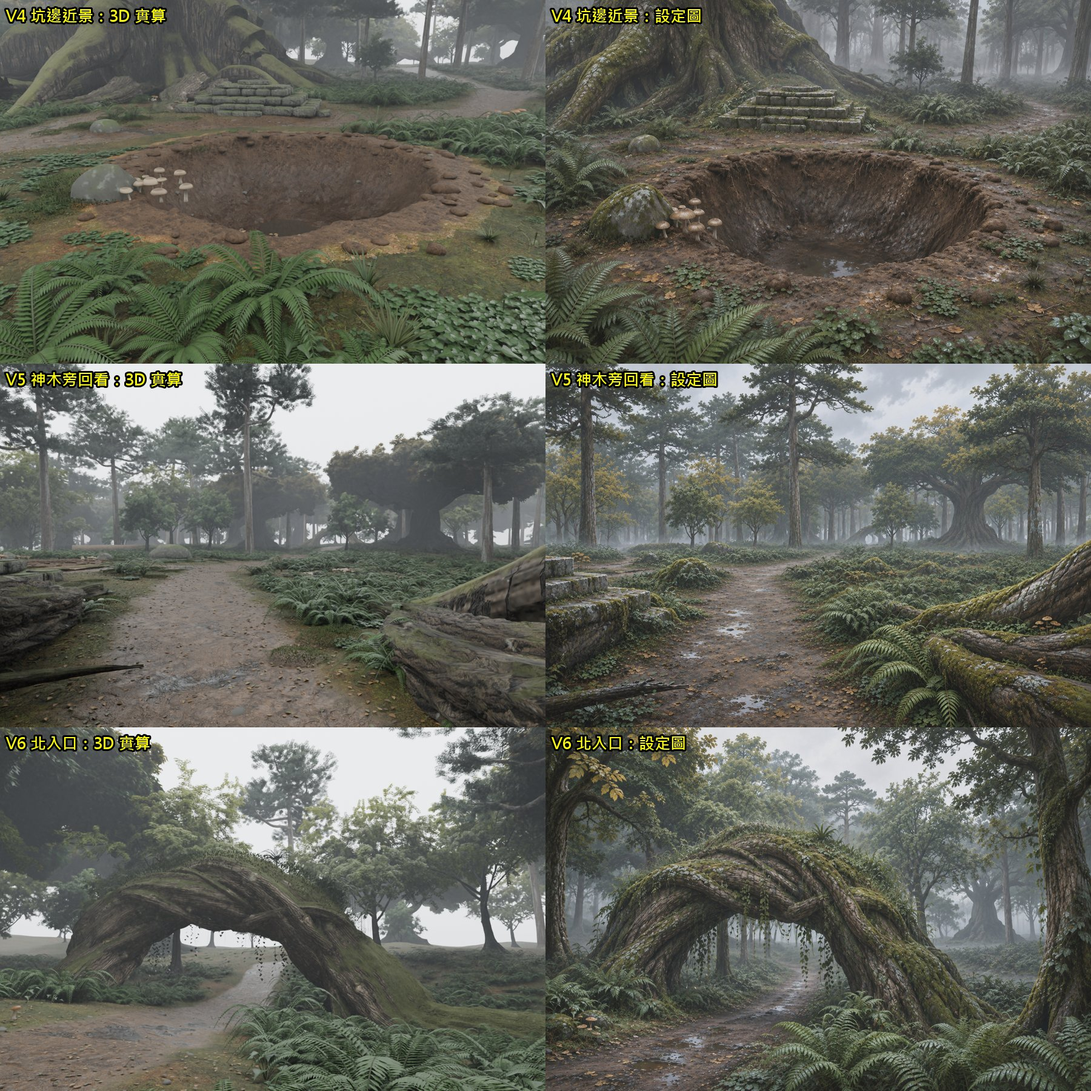
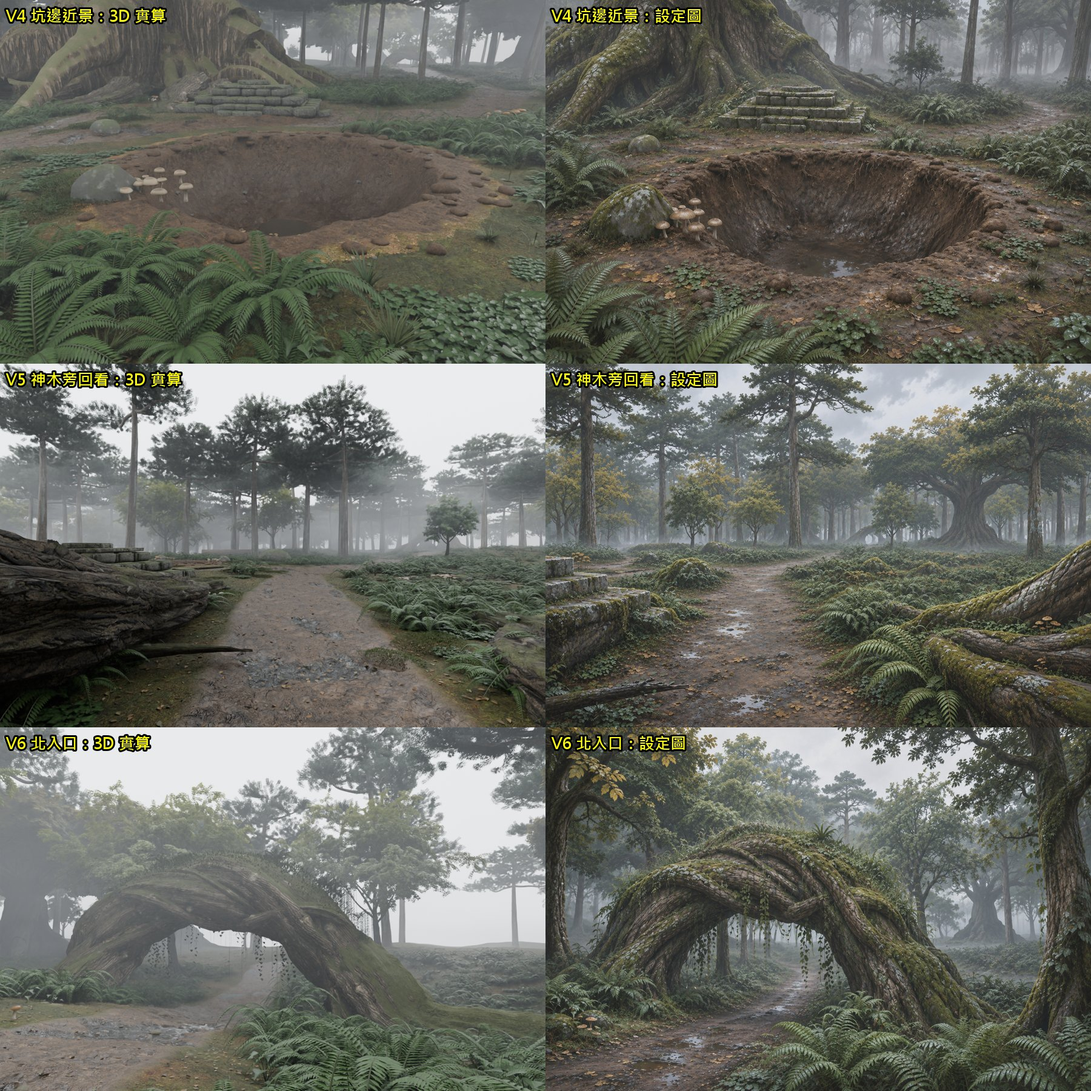
D2: fuse god tree trunk into one mesh (no seams), fine displaced ground near cameras, inter-canopy fog bands, more pines, golden crown patches, V5 shows altar, more arch vines

diff --git a/art/source/core-d2-v1/gt01_fuse_trunk.py b/art/source/core-d2-v1/gt01_fuse_trunk.py
@@ -1,0 +1,28 @@
+# 神木樹幹熔成一整塊：7 根樹幹管 + 板根原本是各自獨立、互相插在一起的網格 → 接縫處一條條橫線（z1nnz 11/21「樹幹不連貫」）
+import bpy,sys,time
+vs=float(sys.argv[-1])
+S='D:/chengtian/4-素材與快取/bark-sample/GT01_out/'
+with bpy.data.libraries.load(S+'GT01_GodTree_v003.blend',link=False) as (s,d):
+    d.objects=[n for n in s.objects if n.endswith('_LOD0')]
+for o in d.objects: bpy.context.scene.collection.objects.link(o)
+w=bpy.data.objects['GT01_GodTree_Wood_LOD0']
+t=time.time()
+import bmesh
+print('SCALE',tuple(w.scale),tuple(w.dimensions))
+bm=bmesh.new(); bm.from_mesh(w.data)
+bmesh.ops.remove_doubles(bm,verts=bm.verts,dist=.002)
+bd=[e for e in bm.edges if e.is_boundary]
+bmesh.ops.holes_fill(bm,edges=bd,sides=0)
+bmesh.ops.recalc_face_normals(bm,faces=bm.faces)
+print('BOUND_AFTER',sum(1 for e in bm.edges if e.is_boundary))
+bm.to_mesh(w.data); bm.free()
+m=w.modifiers.new('R','REMESH'); m.mode='VOXEL'; m.voxel_size=vs; m.adaptivity=0; m.use_smooth_shade=True
+bpy.context.view_layer.objects.active=w
+bpy.ops.object.modifier_apply(modifier='R')
+print('REMESH',len(w.data.vertices),round(time.time()-t,1))
+# 接縫的內凹折角柔化（不要整棵糊掉）
+cs=w.modifiers.new('S','CORRECTIVE_SMOOTH'); cs.factor=.5; cs.iterations=6; cs.smooth_type='SIMPLE'; cs.use_only_smooth=True
+bpy.ops.object.modifier_apply(modifier='S')
+w.name='GT01_GodTree_Wood_LOD0'
+bpy.ops.wm.save_as_mainfile(filepath=S+'GT01_GodTree_v004_fused.blend')
+print('SAVED')
